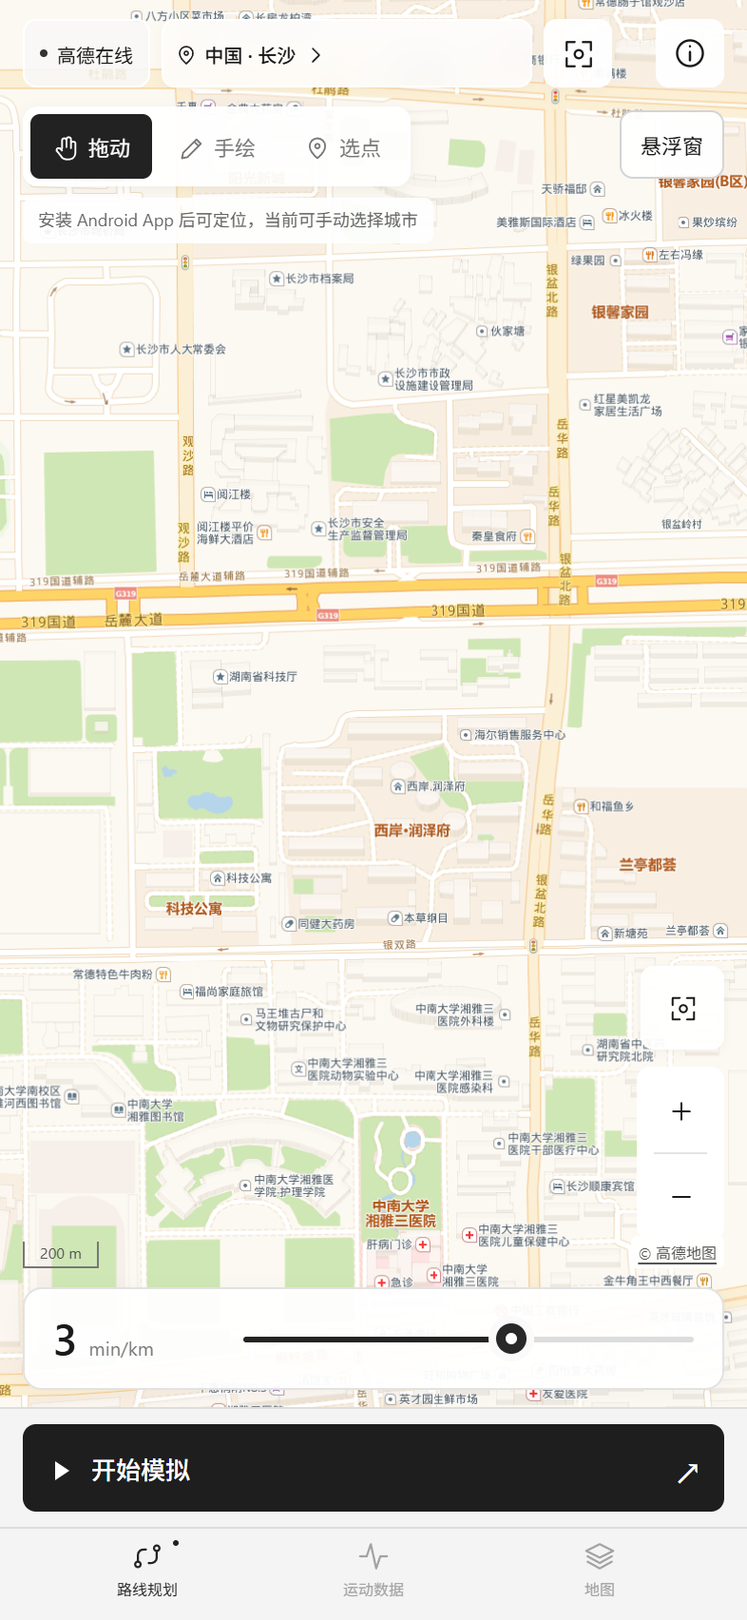
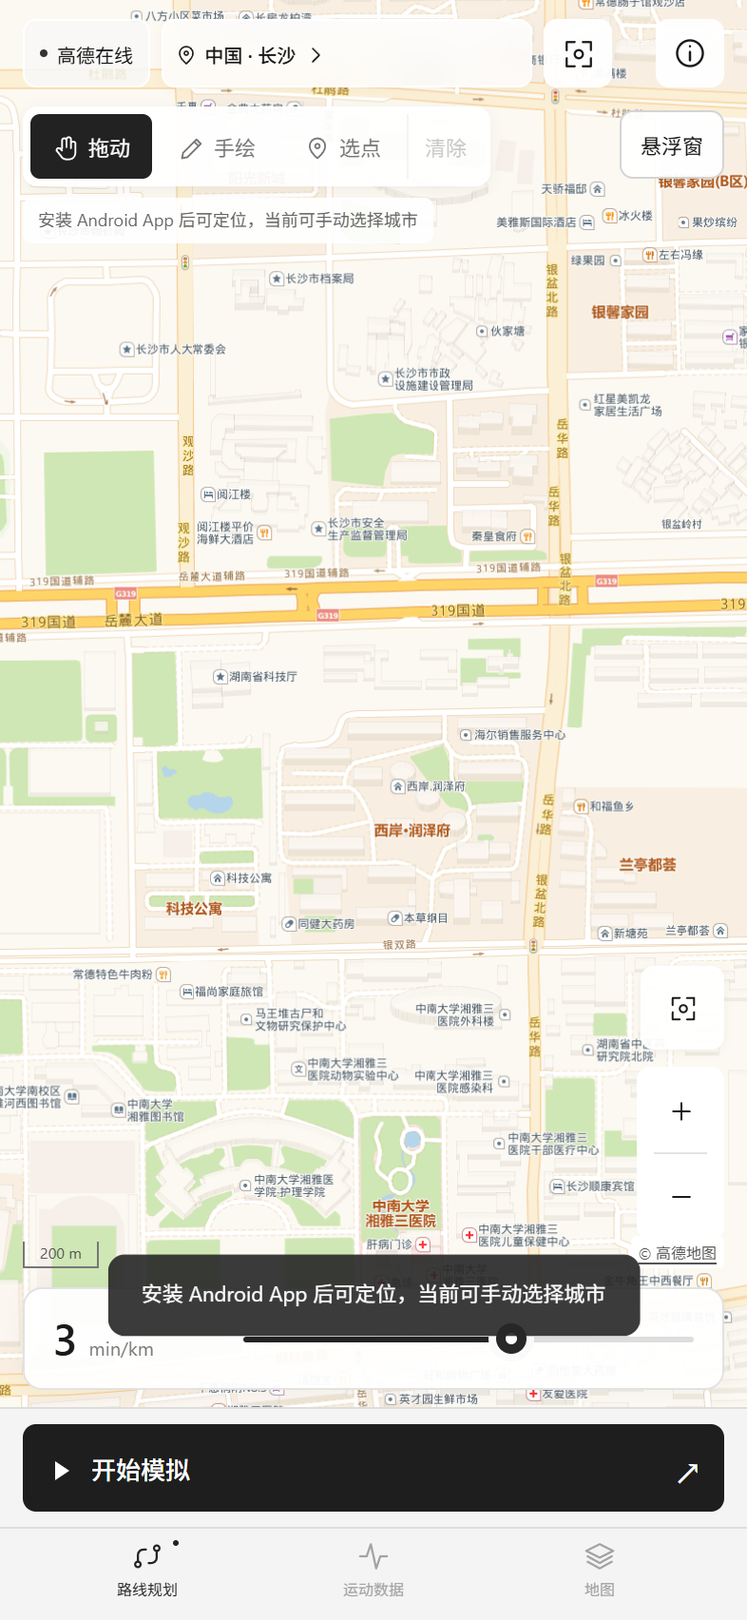
Add current-location city action and visible route clearing

Changed region(s): [[0.1221, 0.7465, 0.855, 0.8398], [0.5802, 0.0622, 0.6412, 0.1244]]

diff --git a/app/src/main/assets/index.html b/app/src/main/assets/index.html
@@ -17,7 +17,7 @@
         <div class="editor-top"><div class="editor-summary"><div><small>起</small><strong>＋ <span id="pointCount">0</span></strong><small>个点</small></div><div><strong id="editorDistance">0.00 km</strong><button id="roundTrip">单程 ⇄</button></div></div><div class="editor-segments"><button id="setStart">设起点</button><button id="addPoints" class="selected">画路线</button><button id="freehand">手绘</button></div></div>
         <div class="editor-bottom"><span id="editorHint">点击地图，添加编号途经点</span><div><button id="editorUndo">撤销</button><button id="editorClear">清空</button><button id="editorDone">完成</button></div></div>
         <div class="map-top"><button class="offline-chip" id="mapStatus" aria-label="切换在线或离线地图" aria-haspopup="dialog"><i></i><span id="mapStatusText">在线地图 ↗</span></button><button class="location-chip" id="chooseCity"><span data-icon="pin"></span><span id="cityLabel">正在定位</span><span data-icon="chevron"></span></button><button id="locateMe" class="locate-button" aria-label="定位当前位置" data-icon="focus"></button></div>
-        <div class="home-modes" role="group" aria-label="路线操作模式"><button id="homeMove" class="selected" aria-pressed="true"><span data-icon="hand"></span>拖动</button><button id="homeFreehand" aria-pressed="false"><span data-icon="pen"></span>手绘</button><button id="homeWaypoints" aria-pressed="false"><span data-icon="pin"></span>选点</button></div>
+        <div class="home-modes" role="group" aria-label="路线操作模式"><button id="homeMove" class="selected" aria-pressed="true"><span data-icon="hand"></span>拖动</button><button id="homeFreehand" aria-pressed="false"><span data-icon="pen"></span>手绘</button><button id="homeWaypoints" aria-pressed="false"><span data-icon="pin"></span>选点</button><button id="homeClear" aria-label="清除已绘制路线" disabled>清除</button></div>
         <span id="locationStatus" class="location-status" role="status" aria-live="polite">正在定位…</span>
         <div class="map-mode"><button id="modeDraw" class="selected" aria-label="绘制轨迹" data-icon="pen"></button><button id="modeMove" aria-label="移动地图" data-icon="hand"></button></div>
         <div class="map-zoom"><button id="zoomIn" aria-label="放大地图" data-icon="plus"></button><span></span><button id="zoomOut" aria-label="缩小地图" data-icon="minus"></button></div>
@@ -65,6 +65,6 @@
 <dialog id="routeToolsSheet" class="sheet route-tools"><div class="sheet-handle"></div><div class="sheet-heading"><h2>路线工具</h2><button class="icon-button close-sheet" aria-label="关闭" data-icon="close"></button></div><div id="routeToolsContent"></div><button class="outline-button" id="openMapLibrary">地图管理 <span>↗</span></button><button class="outline-button" id="menuRetryMap">重试加载在线地图 <span>↻</span></button></dialog>
 <dialog id="mapSourceSheet" class="sheet"><div class="sheet-handle"></div><div class="sheet-heading"><h2>选择地图来源</h2><button class="icon-button close-sheet" aria-label="关闭" data-icon="close"></button></div><p>切换来源会保留已绘制的路线。</p><div class="map-sources" role="group" aria-label="地图来源"><button id="sourceOnline" class="map-source-option selected" aria-pressed="true"><strong>高德在线地图</strong><small>全国道路、建筑与中文地名 · 需要联网</small></button><button id="sourceOverview" class="map-source-option" aria-pressed="false"><strong>全国离线概览</strong><small>内置省级边界与城市定位 · 无街道细节</small></button><button id="sourceImported" class="map-source-option" aria-pressed="false" disabled><strong>已导入的离线地图</strong><small>先在「地图」页导入 MBTiles 地图包</small></button></div><p class="map-source-note">高德底图按当前视野联网加载，切换来源不会改变已保存的 GPS 路线。</p></dialog>
 <dialog id="citySheet" class="sheet"><div class="sheet-handle"></div><div class="sheet-heading"><h2>去哪里走走？</h2><button class="icon-button close-sheet" aria-label="关闭" data-icon="close"></button></div><p>城市快捷定位 · 坐标为 GPS WGS84</p><input id="citySearch" type="search" placeholder="搜索城市，或输入 纬度,经度" aria-label="搜索城市或输入 WGS84 坐标"><div id="cityResults"></div></dialog>
-<dialog id="helpSheet" class="sheet"><div class="sheet-handle"></div><div class="sheet-heading"><h2>让轨迹动起来</h2><button class="icon-button close-sheet" aria-label="关闭" data-icon="close"></button></div><div class="help-content"><p><b>1. 绘制路线</b>打开后默认在线地图，允许定位即可查看当前位置。左上角切换在线或离线、定位及拖动／手绘／选点，双指可移动和缩放。长按地图可使用撤销和清空等辅助工具。</p><p><b>2. 调整配速</b>滑动调节 0–5 分钟/公里，默认 3 分钟/公里（3′00″/km）。数值越小越快，0 特别表示原地停留；回放时也可调整。</p><p><b>3. 配置系统模拟定位</b>打开手机设置 → 关于手机，连续点击版本号启用开发者选项。在开发者选项 → 选择模拟位置信息应用中，选择“行迹 STRIDE”。同时开启手机位置信息，并授予精确位置权限。</p><p><b>4. 开始回放</b>按所画路线更新模拟位置。可暂停、继续或结束，结束会撤销本应用的模拟定位提供者。</p><p><b>关于传感器</b>读取陀螺仪与修改陀螺仪是两回事。普通 Android 应用只能读取真实传感器；本应用生成的步态角速度供内部预览和导出，不会修改其他应用读到的陀螺仪。系统定位带有官方模拟标记，其他应用可能忽略该位置。</p><p><b>后台运行</b>允许通知可在通知栏暂停或结束。部分手机需要在电池设置中允许本应用后台运行。被系统强制结束后不会自动恢复回放。</p></div><button id="openSettings" class="black-button">打开开发者选项 <span>↗</span></button><button id="enableNotifications" class="outline-button">允许回放通知</button></dialog>
+<dialog id="helpSheet" class="sheet"><div class="sheet-handle"></div><div class="sheet-heading"><h2>让轨迹动起来</h2><button class="icon-button close-sheet" aria-label="关闭" data-icon="close"></button></div><div class="help-content"><p><b>1. 绘制路线</b>打开后默认在线地图，允许定位即可查看当前位置。城市列表首项“自动定位”可重新定位当前位置。左上角切换在线或离线、定位及拖动／手绘／选点／清除，双指可移动和缩放。长按地图可使用撤销和清空等辅助工具。</p><p><b>2. 调整配速</b>滑动调节 0–5 分钟/公里，默认 3 分钟/公里（3′00″/km）。数值越小越快，0 特别表示原地停留；回放时也可调整。</p><p><b>3. 配置系统模拟定位</b>打开手机设置 → 关于手机，连续点击版本号启用开发者选项。在开发者选项 → 选择模拟位置信息应用中，选择“行迹 STRIDE”。同时开启手机位置信息，并授予精确位置权限。</p><p><b>4. 开始回放</b>按所画路线更新模拟位置。可暂停、继续或结束，结束会撤销本应用的模拟定位提供者。</p><p><b>关于传感器</b>读取陀螺仪与修改陀螺仪是两回事。普通 Android 应用只能读取真实传感器；本应用生成的步态角速度供内部预览和导出，不会修改其他应用读到的陀螺仪。系统定位带有官方模拟标记，其他应用可能忽略该位置。</p><p><b>后台运行</b>允许通知可在通知栏暂停或结束。部分手机需要在电池设置中允许本应用后台运行。被系统强制结束后不会自动恢复回放。</p></div><button id="openSettings" class="black-button">打开开发者选项 <span>↗</span></button><button id="enableNotifications" class="outline-button">允许回放通知</button></dialog>
 <div id="toast" role="status" aria-live="polite"></div>
 </body></html>

diff --git a/app/src/main/assets/app.js b/app/src/main/assets/app.js
@@ -43,7 +43,7 @@ function updateRoute(){
   $('pointCount').textContent=Math.max(0,route.length-1);$('editorDistance').textContent=km.toFixed(2)+' km';
   $('roundTrip').textContent=roundTrip?'往返 ⇄':'单程 ⇄';
   $('undo').disabled=history.length===0;$('editorUndo').disabled=history.length===0;
-  $('clear').disabled=!route.length;$('mapHint').hidden=route.length>1;
+  $('clear').disabled=!route.length;$('homeClear').disabled=!route.length||active();$('mapHint').hidden=route.length>1;
   $('mapHint').querySelector('span:last-child').textContent=zoom<10?'放大地图，用手指画出你的路线':mapSource==='online'?'在线街道地图 · 可直接绘制路线':mapSource==='imported'?'用手指画出你的路线':'此处为概览底图，可切换在线街道';
   dirty=true;persist();
 }
@@ -85,7 +85,8 @@ function renderCities(query){
   const list=$('cityResults');list.textContent='';query=query.trim();
   const coord=query.split(/[,，\s]+/).map(Number);
   if(query&&coord.length===2&&coord.every(Number.isFinite)&&Math.abs(coord[0])<85.05&&Math.abs(coord[1])<=180){const b=document.createElement('button');b.className='city-result';b.textContent='前往 '+coord[0].toFixed(5)+', '+coord[1].toFixed(5);b.onclick=()=>{moveTo(['自定坐标',coord[1],coord[0],15]);closeSheet();};list.append(b);}
-  cities.filter(c=>!query||c[0].includes(query)).forEach(c=>{const b=document.createElement('button');b.className='city-result';const s=document.createElement('span'),small=document.createElement('small');s.textContent=c[0];small.textContent=c[3]<4?'全国视图':mapSource==='online'?'查看在线街道 ↗':'离线坐标定位 ↗';b.append(s,small);b.onclick=()=>{moveTo(c);closeSheet();if(c[3]>4&&mapSource==='overview')toast('已定位城市。点击地图左上角，可切换在线街道');};list.append(b);});
+  if(!query||'自动定位当前位置'.includes(query)){const b=document.createElement('button');b.id='autoLocate';b.className='city-result';const label=document.createElement('span'),detail=document.createElement('small');label.textContent='自动定位';detail.textContent='定位当前位置 ↗';b.append(label,detail);b.onclick=()=>{closeSheet();requestLocation(true);};list.append(b);}
+  cities.filter(c=>c[3]>=4&&(!query||c[0].includes(query))).forEach(c=>{const b=document.createElement('button');b.className='city-result';const s=document.createElement('span'),small=document.createElement('small');s.textContent=c[0];small.textContent=c[3]<4?'全国视图':mapSource==='online'?'查看在线街道 ↗':'离线坐标定位 ↗';b.append(s,small);b.onclick=()=>{moveTo(c);closeSheet();if(c[3]>4&&mapSource==='overview')toast('已定位城市。点击地图左上角，可切换在线街道');};list.append(b);});
   if(!list.children.length){const p=document.createElement('p');p.textContent='未找到城市，可输入“纬度,经度”定位';p.className='note';list.append(p);}
 }
 function fit(points=route){if(!points.length){moveTo(cities[0]);return;}const projected=points.map(mapMerc);let minX=Infinity,maxX=-Infinity,minY=Infinity,maxY=-Infinity;for(const p of projected){minX=Math.min(minX,p[0]);maxX=Math.max(maxX,p[0]);minY=Math.min(minY,p[1]);maxY=Math.max(maxY,p[1]);}mapCenter=mapUnmerc([(minX+maxX)/2,(minY+maxY)/2]);const availableWidth=Math.max(80,width-100),availableHeight=Math.max(80,height-(editing?340:120));zoom=Math.max(2,Math.min(18,Math.log2(Math.min(availableWidth/(Math.max(1e-8,maxX-minX)*256),availableHeight/(Math.max(1e-8,maxY-minY)*256)))));dirty=true;persist();}
@@ -195,6 +196,7 @@ function applyState(next){
   if((running||paused)&&Number.isFinite(next.speed)&&speed!==next.speed){speed=Math.max(0,Math.min(5,next.speed));updateSpeed();}
   if((running||paused)&&typeof next.gyroEnabled==='boolean'&&gyroEnabled!==next.gyroEnabled){gyroEnabled=next.gyroEnabled;updateGyroUI();}
   $('startLabel').textContent=running?'暂停模拟':paused?'继续模拟':finished?'再次模拟':'开始模拟';$('start').firstElementChild.innerHTML=icon(running?'pause':'play');
+  $('homeClear').disabled=!route.length||running||paused||commandPending;
   $('stop').hidden=!running&&!paused;$('runStatus').textContent=running?(next.mock?'系统模拟定位中':'轨迹预览中'):paused?'回放已暂停':finished?'已抵达终点':next.status==='error'?'启动未完成':'准备好，出发吧';
   $('statusDot').classList.toggle('running',running);const fraction=next.total?Math.min(1,(next.distance||0)/next.total):0;
   $('progressBar').style.width=fraction*100+'%';$('progressLabel').textContent=running||paused||finished?Math.round(fraction*100)+'% COMPLETED':'ROUTE SIMULATOR';
@@ -273,7 +275,7 @@ $('help').onclick=()=>showSheet('helpSheet');$('chooseCity').onclick=()=>showShe
 $('modeDraw').onclick=()=>setMode('draw');$('modeMove').onclick=()=>setMode('move');
 $('homeMove').onclick=()=>setHomeTool('move');$('homeFreehand').onclick=()=>setHomeTool('freehand');$('homeWaypoints').onclick=()=>setHomeTool('waypoint');$('locateMe').onclick=()=>requestLocation(true);
 $('zoomIn').onclick=()=>{mapInteraction++;zoom=Math.min(19,zoom+1);dirty=true;updateRoute();};$('zoomOut').onclick=()=>{mapInteraction++;zoom=Math.max(2,zoom-1);dirty=true;updateRoute();};$('fitRoute').onclick=()=>{mapInteraction++;fit();};
-$('undo').onclick=undo;$('clear').onclick=clearRoute;$('demo').onclick=demo;$('openEditor').onclick=()=>setEditing(true);$('editorDone').onclick=()=>setEditing(false);$('editorUndo').onclick=undo;$('editorClear').onclick=clearRoute;
+$('homeClear').onclick=clearRoute;$('undo').onclick=undo;$('clear').onclick=clearRoute;$('demo').onclick=demo;$('openEditor').onclick=()=>setEditing(true);$('editorDone').onclick=()=>setEditing(false);$('editorUndo').onclick=undo;$('editorClear').onclick=clearRoute;
 $('setStart').onclick=()=>setEditorMode('start');$('addPoints').onclick=()=>setEditorMode('waypoint');$('freehand').onclick=()=>setEditorMode('freehand');$('roundTrip').onclick=()=>{if(mutable()){pushHistory();roundTrip=!roundTrip;updateRoute();}};
 $('mockMode').onclick=()=>setMock(true);$('previewMode').onclick=()=>setMock(false);$('openMotion').onclick=()=>showPage('motion');$('start').onclick=start;$('stop').onclick=()=>{if(native)native.stop();else{browserPlayback.data=null;applyState({status:'idle',gyro:[0,0,0]});}};
 $('exportSession').onclick=exportData;$('showChina').onclick=()=>{setMapSource('overview');moveTo(cities[0]);showPage('route');};$('showOnline').onclick=()=>{setMapSource('online');showPage('route');};$('importMap').onclick=()=>native?native.importMap():toast('请在 Android App 中通过文件选择器导入 MBTiles');$('showImported').onclick=showImported;
@@ -294,6 +296,6 @@ function setupRouteTools(){
   $('openMapLibrary').onclick=()=>showPage('maps');$('menuRetryMap').onclick=retryMap;
   $('routeToolsSheet').querySelectorAll('button').forEach(button=>button.addEventListener('click',()=>{if($('routeToolsSheet').open)closeSheet();}));
 }
-setupRouteTools();syncMode();requestLocation();
+setupRouteTools();syncMode();requestLocation(true);
 setInterval(()=>{try{if(sensorMode==='device'&&native&&native.sensorState)measured=JSON.parse(native.sensorState());applyState(native?JSON.parse(native.state()):browserPlayback.snapshot());if(native){const overlay=JSON.parse(native.overlayState()),enabled=!!overlay.enabled;if(enabled!==overlayEnabled){overlayEnabled=enabled;updateOverlayUI();if(enabled)toast('悬浮控制已开启，返回桌面即可使用');}if(overlay.error&&overlay.error!==lastOverlayError)toast(overlay.error);lastOverlayError=overlay.error||'';}}catch(e){if(commandPending&&Date.now()>commandDeadline)unlockCommand();}},150);
 function frame(now){if(dirty&&!document.hidden&&$('page-route').classList.contains('active'))drawMap();if(now-lastChart>100){chartSeries.push(displayedGyro());if(chartSeries.length>111)chartSeries.shift();if($('page-motion').classList.contains('active'))drawChart();lastChart=now;}requestAnimationFrame(frame);}requestAnimationFrame(frame);

diff --git a/app/src/main/assets/layout.css b/app/src/main/assets/layout.css
@@ -215,3 +215,5 @@ main::-webkit-scrollbar{display:none}
 .route-home:not(.editing) .header-actions{position:relative;width:36px;height:36px;display:block}
 .overlay-shortcut{display:none;background:#fffffff2}
 .route-home:not(.editing) .overlay-shortcut{display:block;position:absolute;right:0;top:48px}
+
+.home-modes #homeClear{min-width:40px;padding:6px 8px;border-left:1px solid #e3e3e3;border-radius:0 5px 5px 0}

diff --git a/tools/build.py b/tools/build.py
@@ -56,8 +56,8 @@ if '--debug' in sys.argv:
     manifest = debug_manifest
 run(TOOLS/'aapt2.exe', 'link', '-o', BUILD/'base.apk', '-I', ANDROID,
     '--manifest', manifest, '--java', BUILD/'generated',
-    '--min-sdk-version', '26', '--target-sdk-version', '35', '--version-code', '6',
-    '--version-name', '1.3.2', '-A', ROOT/'app/src/main/assets', BUILD/'resources.zip')
+    '--min-sdk-version', '26', '--target-sdk-version', '35', '--version-code', '7',
+    '--version-name', '1.3.3', '-A', ROOT/'app/src/main/assets', BUILD/'resources.zip')
 sources = list((ROOT/'app/src/main/java').rglob('*.java'))+list((BUILD/'generated').rglob('*.java'))
 source_list = BUILD/'sources.txt'
 source_list.write_text('\n'.join('"'+p.as_posix()+'"' for p in sources), encoding='utf-8')
@@ -77,7 +77,7 @@ if not key.exists():
     run(JAVA/'keytool.exe','-genkeypair','-keystore',key,'-storepass','android','-keypass','android',
         '-alias','androiddebugkey','-dname','CN=Stride Local Build,O=Local Development,C=CN',
         '-keyalg','RSA','-keysize','2048','-validity','10000')
-apk=BUILD/'stride-debug.apk' if '--debug' in sys.argv else DIST/'stride-1.3.2.apk'
+apk=BUILD/'stride-debug.apk' if '--debug' in sys.argv else DIST/'stride-1.3.3.apk'
 run(JAVA/'java.exe','-jar',TOOLS/'lib/apksigner.jar','sign','--ks',key,'--ks-key-alias','androiddebugkey',
     '--ks-pass','pass:android','--key-pass','pass:android','--out',apk,BUILD/'aligned.apk')
 run(JAVA/'java.exe','-jar',TOOLS/'lib/apksigner.jar','verify','--verbose',apk)

diff --git a/app/src/main/java/cn/stride/offline/MainActivity.java b/app/src/main/java/cn/stride/offline/MainActivity.java
@@ -47,7 +47,7 @@ public final class MainActivity extends Activity {
         settings.setAllowFileAccess(false);settings.setAllowContentAccess(false);settings.setMixedContentMode(WebSettings.MIXED_CONTENT_NEVER_ALLOW);
         settings.setDefaultTextEncodingName("UTF-8");settings.setMediaPlaybackRequiresUserGesture(true);
         settings.setCacheMode(WebSettings.LOAD_DEFAULT);
-        settings.setUserAgentString(settings.getUserAgentString()+" Stride/1.3.2 (cn.stride.offline)");
+        settings.setUserAgentString(settings.getUserAgentString()+" Stride/1.3.3 (cn.stride.offline)");
         web.addJavascriptInterface(new Bridge(),"Native");
         web.setWebViewClient(new WebViewClient(){
             @Override public boolean shouldOverrideUrlLoading(WebView view,WebResourceRequest req){

diff --git a/README.md b/README.md
@@ -1,6 +1,6 @@
 # 行迹 STRIDE · Android 地图与轨迹模拟
 
-可安装 APK：[下载 1.3.2](https://github.com/hxyz486/stride-android/releases/download/v1.3.2/stride-1.3.2.apk)。支持 Android 8.0 及以上，黑白按钮与面板、彩色地图，无广告。默认使用高德在线地图查看全国街道，也可切换内置离线概览或导入区域离线地图。当前为本地签名的开发版本。
+可安装 APK：[下载 1.3.3](https://github.com/hxyz486/stride-android/releases/download/v1.3.3/stride-1.3.3.apk)。支持 Android 8.0 及以上，黑白按钮与面板、彩色地图，无广告。默认使用高德在线地图查看全国街道，也可切换内置离线概览或导入区域离线地图。当前为本地签名的开发版本。
 
 ![浏览器真实地图预览](docs/images/home.png)
 
@@ -8,7 +8,7 @@
 
 - 默认按当前视野加载高德在线街道地图，显示道路、建筑与中文地名，细节取决于当地数据覆盖。支持 39 个城市/地区快捷定位，也可输入 GPS WGS84 的“纬度,经度”。
 - 保留原首页上方的在线/离线、城市、当前位置、拖动/手绘/选点及缩放控件；只精简下方的统计和文字面板，留下速度条与开始按钮。底部导航和“运动数据”页保留，默认在线并尝试定位当前位置。
-- 左上角切换在线街道、内置离线全国概览或已导入 MBTiles；切换保留 WGS84 路线。长按地图可使用撤销、清空、示例路线或全屏编辑等辅助操作。
+- 左上角切换在线街道、内置离线全国概览或已导入 MBTiles；切换保留 WGS84 路线。城市列表首项为“自动定位”，点击重新请求当前位置。首页“选点”旁可直接“清除”路线，原撤销入口可恢复；回放时禁止清除。长按地图仍可使用撤销、清空、示例路线或全屏编辑等辅助操作。
 - 参照提供的效果图制作的全屏编辑页：设起点、点击添加编号途经点、连续手绘、撤销、清空、完成；支持单程/原路往返。普通模式画线，双指移动缩放，另有移动模式。
 - 配速范围 **0–5 min/km，默认 3 min/km**，步长 0.1。单位是分钟/公里，3 表示 3 分钟跑 1 公里，5 表示 5 分钟跑 1 公里；正数越小越快。0 表示原地停留：坐标、步数与模拟晃动停止，活动计时继续。回放时可调速、暂停、继续或结束。
 - 在线地图按屏幕像素密度选择更高一级图块，并避免小数缩放时拉伸低级别图块；保留彩色地图。栅格来源最高支持 19 级，达到上限后仍受原始分辨率限制。
@@ -23,7 +23,7 @@
 ## 首次使用
 
 1. 将 APK 传到手机安装，根据系统提示允许此安装来源。
-2. 保持联网，首次打开时允许位置权限，首页会尝试定位当前位置。在左上角选择拖动、手绘或选点；可直接选择城市或定位重试。长按地图可清空、撤销或载入示例。速度在底部调整，点开始回放。
+2. 保持联网，打开 App 会尝试获取当前位置，尚未授权时请求系统定位权限；此前拒绝过也会再次尝试系统授权流程。允许后首页自动移动到当前位置。在左上角选择拖动、手绘或选点；可直接选择城市或定位重试。长按地图可清空、撤销或载入示例。速度在底部调整，点开始回放。
 3. 在系统设置 → 关于手机中连续点击版本号，启用开发者选项。在“选择模拟位置信息应用”中选择 **行迹 STRIDE**。
 4. 打开系统位置信息开关，长按地图，在工具菜单选择“系统模拟定位”并开始，允许**精确位置**权限。首次可先选“App 内预览”，无需模拟定位授权。
 5. 要在退出后控制，点击首页右上角 **悬浮窗**，或在“运动数据”页打开 **退出后显示悬浮窗**，在系统页面允许“显示在其他应用上层”，然后返回 App。

diff --git a/app/src/main/assets/maps/SOURCES.md b/app/src/main/assets/maps/SOURCES.md
@@ -10,7 +10,7 @@ The map displays “© 高德地图” linked to https://www.amap.com/ . The app
 
 On 2026-10-21, actual zoom-16 street tiles for Beijing (`53958/24830`) and Changsha (`53328/27408`) returned HTTP 200 PNG images on the development network. The returned maps showed Chinese street labels. This verifies the sampled requests; device-network availability and map detail can vary. See the project TESTING.md for the complete validation scope.
 
-Requests are limited to the current visible viewport, with a maximum zoom of 19. There is no prefetch, bulk downloader, national tile archive, or offline export of this service. Android uses normal WebView HTTPS requests and its default HTTP cache, honoring service cache headers. The WebView User-Agent appends `Stride/1.3.2 (cn.stride.offline)`. Browser previews retain their ordinary browser identification. Cache retention is not guaranteed and is not an offline-map feature.
+Requests are limited to the current visible viewport, with a maximum zoom of 19. There is no prefetch, bulk downloader, national tile archive, or offline export of this service. Android uses normal WebView HTTPS requests and its default HTTP cache, honoring service cache headers. The WebView User-Agent appends `Stride/1.3.3 (cn.stride.offline)`. Browser previews retain their ordinary browser identification. Cache retention is not guaranteed and is not an offline-map feature.
 
 The online basemap uses GCJ-02 display coordinates. The app converts WGS84 route and city coordinates for display and converts drawn points back to WGS84. Stored routes, playback, coordinate input, and exported data remain WGS84 when switching sources. Tile requests disclose the viewed area to the map service; full routes and session records are not uploaded by this app.
 

diff --git a/TESTING.md b/TESTING.md
@@ -1,8 +1,11 @@
-# 行迹 STRIDE 1.3.2 验证记录
+# 行迹 STRIDE 1.3.3 验证记录
 
-验证日期：2026-10-21。交付包：`dist/stride-1.3.2.apk`。
+验证日期：2026-10-21。交付包：`dist/stride-1.3.3.apk`。
 
 ## 修改与验收
+
+- 城市列表首项由“全国概览”替换为“自动定位”，点击请求当前位置并关闭列表；支持搜索自动定位入口。冷启动传入明确的定位授权请求，先前拒绝过权限时也尝试重新申请（系统永久拒绝时需到系统应用权限开启）。自动定位不会改写已有 WGS84 路线。
+- 首页“拖动／手绘／选点”操作区增加“清除”，空路线和活动回放时禁用；清除支持原有撤销恢复。已通过受控 Native 桥验证启动请求、拒绝后从城市列表重试成功，并验证小屏按钮与悬浮窗入口无重叠。
 
 - 配速改为 0–5 min/km，默认 3，步长 0.1；0 表示停留。3 对应 180 秒/公里，5 对应 300 秒/公里；Android 位置速度按米/秒换算。旧 km/min 偏好恢复为默认 3，防止沿用旧单位；WGS84 路线保留。
 - 纯 Java 路线引擎 168 项通过：默认与端点、米/秒换算、1 公里完成时间、运行中调速、停留/暂停/继续、有限状态、终点与模拟陀螺仪。
